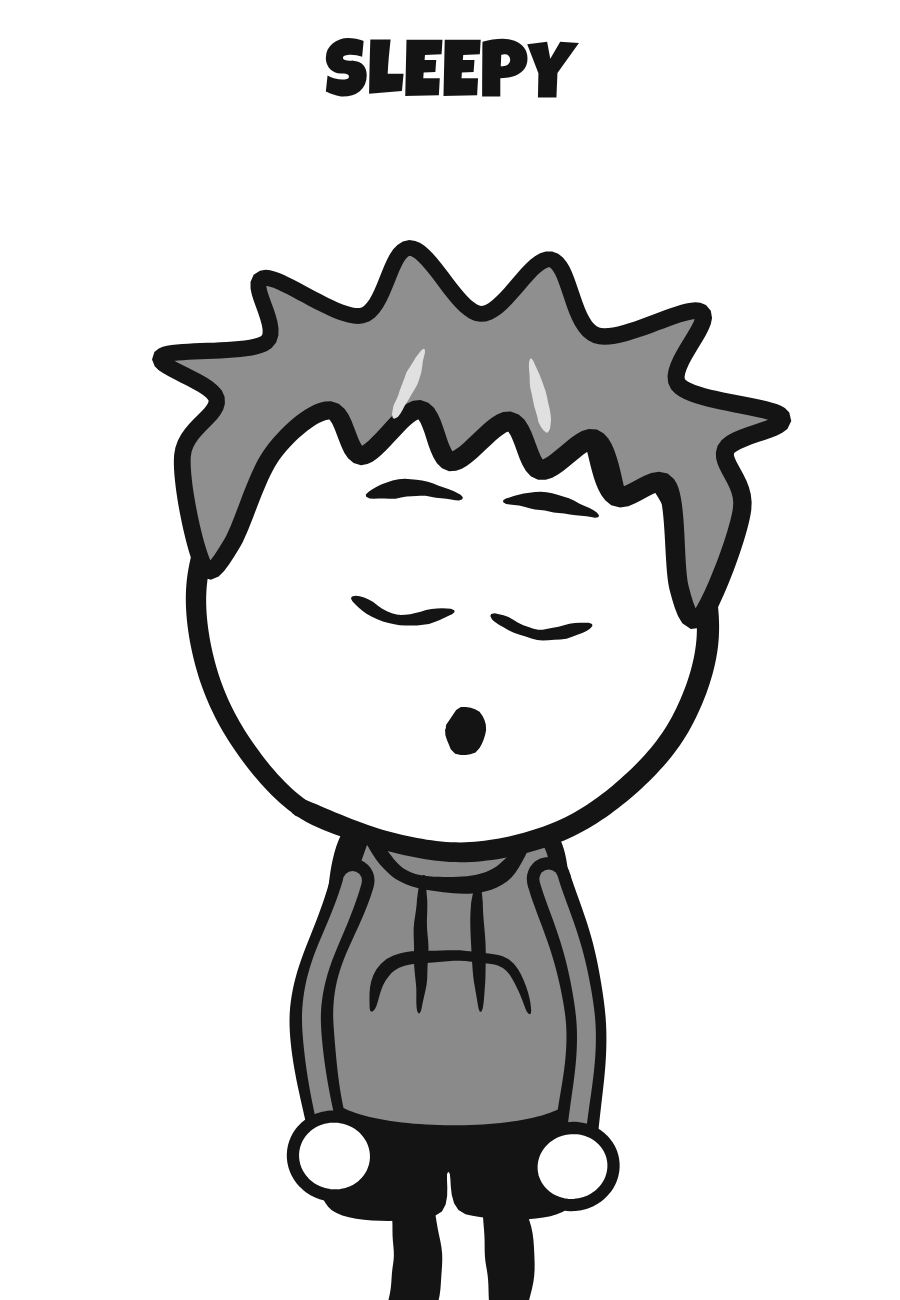
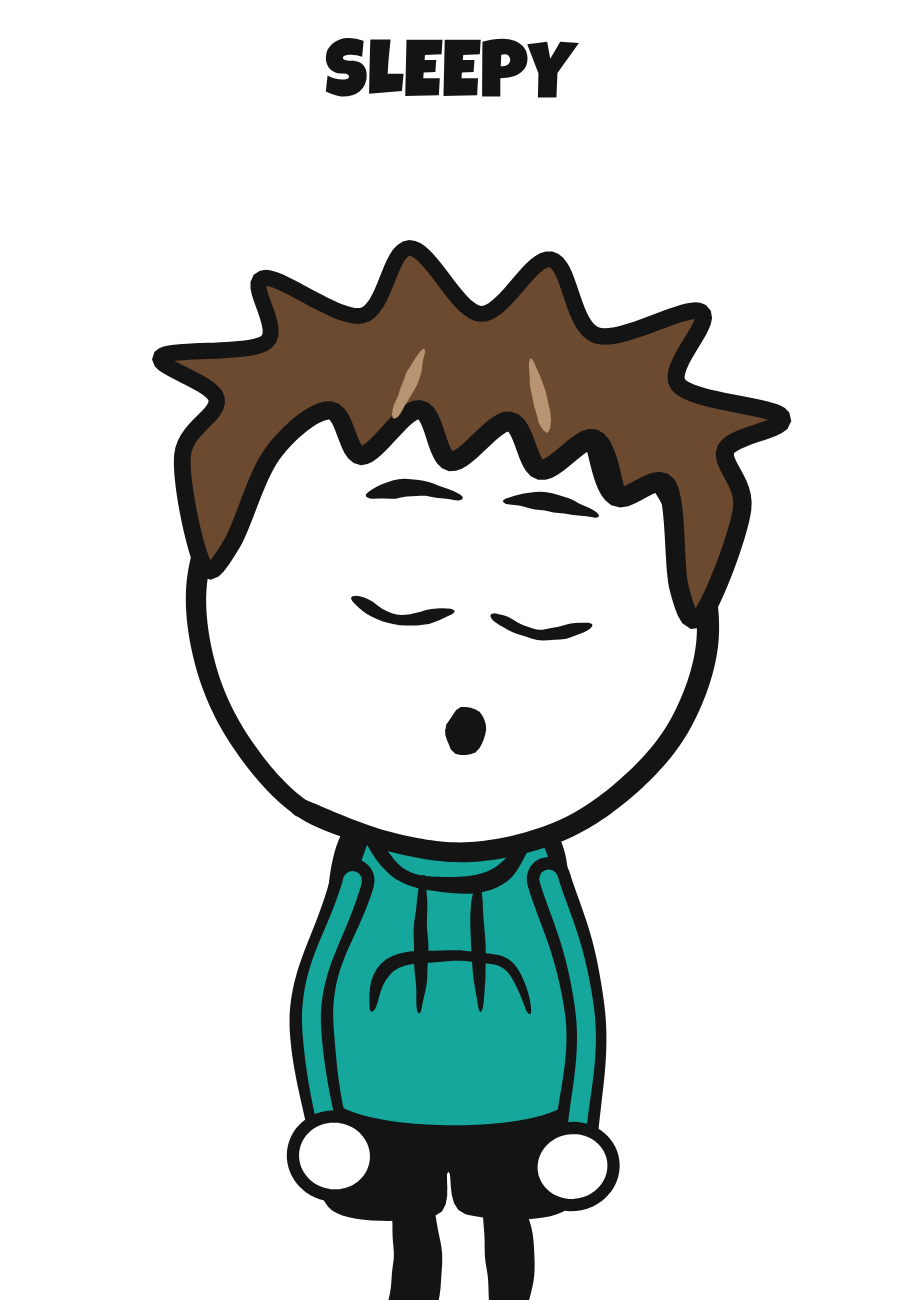
Colour: cream paper, teal and brown main character, coloured props on the paper
The channel's palette, chosen on rendered frames of the power nap and alarm
videos against the user's references (Nutshell, Ice Cream Sandwich, gebutaw,
pochita__arc): one flat cream paper for every shot, the main character with
brown hair, a teal hoodie and a beard the same brown as his hair, and props in
real-world colours dulled below the hoodie. Sets are props on the paper: no
walls, floors, ceilings or skirting drawn as surfaces.

- web/palette.js (new): every colour in one place, loaded first.
- Main character (Cameos.spikyMain) in the new colours; the long-nap beard
  matches the hair; the haircut skit's rig uses the same hoodie.
- Power nap: cream paper, no floor, olive couch, linen blanket.
- Alarm video: cream paper (darkened at night), wood bed and nightstand, blue
  blanket, brick curtains, butter lamp shade; wall, floor, skirting,
  floorboards, ceiling and the picture removed.
- STYLE.md: Colour section rewritten; sets rule; cast and hair notes.
- art-reviewer checklist: colour and set rules.
- characters/main re-rendered; references/README.md records the tests.

Other skits keep their grey sets until converted; the main character is in
colour wherever he appears.

Claude-Session: https://claude.ai/code/session_01CQeNMemGdKtmnPdcMhphHu

Changed region(s): [[0.1867, 0.1846, 0.84, 0.4615], [0.3111, 0.6462, 0.6844, 0.8923]]

diff --git a/web/skits/powernap.js b/web/skits/powernap.js
@@ -7,7 +7,7 @@
 Skits.powernap = (() => {
   const { stroke, fill, outline, blob, INK } = Brush;
   const { seg, lerp, easeOut, easeInOut, easeOutBack, say, loud, blink, clamp } = Stage;
-  const W = '#fff', RED = '#d9261c', BACKDROP = '#eeeeee', HEAD = 438;
+  const W = '#fff', RED = '#d9261c', BACKDROP = Palette.paper, HEAD = 438;
   const hh = i => { const x = Math.sin(i * 127.1 + 311.7) * 43758.5453; return x - Math.floor(x); };
 
   const END = 10.4;   // the clip's audio ends at 9.21; the last ~1.2 s holds his groggy face in silence
@@ -120,7 +120,7 @@ Skits.powernap = (() => {
   function blanket(ctx, P, s, cover, down = 0) {
     const L = HEAD * s * cover, th = 115 * s;
     const pts = [P(-70 * s, -th), P(L * 0.5, -th * 1.08), P(L, -th), P(L + 14 * s, 0), P(L, th + down), P(L * 0.5, th * 1.05 + down), P(-80 * s, th + down)];
-    shape(ctx, pts, '#bdbdbd', 10);
+    shape(ctx, pts, Palette.prop.linen, 10);
     stroke(ctx, [P(L - 40 * s, -th * 0.9), P(L - 40 * s, th * 0.8 + down)], { w: 6 });   // folded hem
     stroke(ctx, [P(L * 0.4, -th * 0.6), P(L * 0.25, th * 0.3)], { w: 5 });             // a wrinkle
   }
@@ -145,18 +145,17 @@ Skits.powernap = (() => {
   const SEAT = 1310, FLOOR = 1520;
   function couchBack(ctx) {
     ctx.fillStyle = BACKDROP; ctx.fillRect(-2000, -2000, 5000, 6000);
-    ctx.fillStyle = '#e2e2e2'; ctx.fillRect(-2000, FLOOR, 5000, 3000);                       // floor
     stroke(ctx, [[-900, FLOOR], [540, FLOOR + 3], [2000, FLOOR - 3]], { w: 9, taper0: 0, taper1: 0 });
-    fill(ctx, Brush.ellipsePts(540, FLOOR + 8, 470, 20, 16), '#cfcfcf', 0.4);              // flat shadow
-    couchShape(ctx, [[150, 1040], [540, 1010], [930, 1040], [940, SEAT + 20], [140, SEAT + 20]], '#5c5c5c', 11);   // back cushions
+    fill(ctx, Brush.ellipsePts(540, FLOOR + 8, 470, 20, 16), Palette.prop.shadow, 0.4);              // flat shadow
+    couchShape(ctx, [[150, 1040], [540, 1010], [930, 1040], [940, SEAT + 20], [140, SEAT + 20]], Palette.prop.olive, 11);   // back cushions
     stroke(ctx, [[540, 1030], [540, SEAT]], { w: 6 });                                       // seam between the two back cushions
-    couchShape(ctx, [[70, 1150], [140, 1110], [220, 1140], [230, FLOOR - 40], [80, FLOOR - 40]], '#4e4e4e', 11);   // left arm (his head ends up on it)
+    couchShape(ctx, [[70, 1150], [140, 1110], [220, 1140], [230, FLOOR - 40], [80, FLOOR - 40]], Palette.prop.oliveDark, 11);   // left arm (his head ends up on it)
   }
   function couchFront(ctx) {
-    couchShape(ctx, [[860, 1150], [940, 1110], [1010, 1150], [1000, FLOOR - 40], [850, FLOOR - 40]], '#4e4e4e', 11);   // right arm
-    couchPanel(ctx, box(200, SEAT, 870, FLOOR - 40), '#6a6a6a', 11);                               // seat cushions, front face
+    couchShape(ctx, [[860, 1150], [940, 1110], [1010, 1150], [1000, FLOOR - 40], [850, FLOOR - 40]], Palette.prop.oliveDark, 11);   // right arm
+    couchPanel(ctx, box(200, SEAT, 870, FLOOR - 40), Palette.prop.oliveLight, 11);                               // seat cushions, front face
     stroke(ctx, [[535, SEAT + 6], [535, FLOOR - 48]], { w: 6, seed: 4999 });
-    for (const x of [130, 950]) couchPanel(ctx, box(x - 20, FLOOR - 40, x + 20, FLOOR + 4, 2), '#555', 8);   // stubby legs
+    for (const x of [130, 950]) couchPanel(ctx, box(x - 20, FLOOR - 40, x + 20, FLOOR + 4, 2), '#5e4330', 8);   // stubby legs (wood)
   }
 
   const CS = 1.1, HIP = 150 * CS;   // his hips sit on the seat; the legs hang behind the seat cushions
@@ -202,9 +201,9 @@ Skits.powernap = (() => {
         const foot = [lerp(sitF[0], lieF[0], swing), lerp(sitF[1], lieF[1], swing) - arc * 1.4];
         const leg = [hip, knee, foot];
         const edge = [[lerp(hip[0], knee[0], 0.45), lerp(hip[1], knee[1], 0.45)], knee, foot];   // the edge starts below the shorts, so the hip end never shows a grey ring
-        stroke(ctx, edge, { w: 36, taper0: 0, taper1: 0, color: '#6a6a6a' });   // a thin couch-grey edge round both legs (on the upper leg it also keeps the two legs apart)
+        stroke(ctx, edge, { w: 36, taper0: 0, taper1: 0, color: Palette.prop.oliveLight });   // a thin couch-coloured edge round both legs (on the upper leg it also keeps the two legs apart)
         stroke(ctx, leg, { w: 28, taper0: 0, taper1: 0 });                                   // black legs, as in his design (the same ink as his shorts)   // ...dark trousers inside, so the legs read apart
-        fill(ctx, Brush.ellipsePts(foot[0] + 16 * swing, foot[1] + 4, 42, 21, 10), '#6a6a6a', 0.8);
+        fill(ctx, Brush.ellipsePts(foot[0] + 16 * swing, foot[1] + 4, 42, 21, 10), Palette.prop.oliveLight, 0.8);
         fill(ctx, Brush.ellipsePts(foot[0] + 16 * swing, foot[1] + 4, 38, 17, 10), INK, 0.8);   // shoe, tucked onto the end of the shin
       }
       ctx.restore();
@@ -259,7 +258,7 @@ Skits.powernap = (() => {
         ctx.fillStyle = '#e6edf2'; ctx.fill(); ctx.lineWidth = 6 * Brush.getWeight(); ctx.strokeStyle = Brush.INK; ctx.stroke();
         stroke(ctx, [[bx - br * 0.5, by - br * 0.1], [bx - br * 0.3, by - br * 0.5]], { w: 5, color: W, taper0: 0.2, taper1: 0.2, seed: 4910 + i });
       }
-      couchShape(ctx, [[-60, 1850], [240, 1810], [540, 1832], [840, 1806], [1140, 1846], [1140, 2000], [-60, 2000]], '#a8a8a8', 12);   // the couch cushion he pushes up from
+      couchShape(ctx, [[-60, 1850], [240, 1810], [540, 1832], [840, 1806], [1140, 1846], [1140, 2000], [-60, 2000]], '#a3b07f', 12);   // the couch cushion he pushes up from
       stroke(ctx, [[540, 1840], [540, 1940]], { w: 6, seed: 4998 });   // fixed seed: boils only on the beat
     }],
   ];

diff --git a/web/skits/morningself.js b/web/skits/morningself.js
@@ -52,13 +52,16 @@ Skits.morningself = (() => {
 
   // ---------- the bedroom: one wide shot, one camera, night and morning ----------
   // Only the lighting changes between them: these palettes.
-  const NIGHT = { ceiling: '#7a7a7a', wall: '#8c8c8c', floor: '#777777', skirting: '#9c9c9c', pane: '#4c4c4c', curtain: '#5c5c5c', frame: '#a8a8a8',
-                  head: '#5a5a5a', stand: '#6c6c6c', standTop: '#808080', mattress: '#b4b4b4', blanket: '#a6a6a6', pillow: '#c2c2c2', shade: W };
-  const DAY = { ceiling: '#f2f2f2', wall: '#dedede', floor: '#d0d0d0', skirting: '#f4f4f4', pane: W, curtain: '#a8a8a8', frame: '#f4f4f4',
-                head: '#8f8f8f', stand: '#9a9a9a', standTop: '#b4b4b4', mattress: '#dcdcdc', blanket: '#bdbdbd', pillow: '#d6d6d6', shade: '#cfcfcf' };
-  const FLOOR_Y = 1430, CEIL_Y = 90;
+  // Colours: the paper darkens for night, the props keep real-world colours
+  // dulled below his hoodie (Palette). No wall, floor or ceiling is drawn: the
+  // bed, nightstand, lamp and window sit on the paper (user decision).
+  const P = Palette.prop;
+  const NIGHT = { paper: Palette.paperNight, pane: P.nightSky, curtain: P.curtainNight, frame: '#a08f80',
+                  head: '#6b4f3b', stand: '#73563f', standTop: '#86684f', mattress: P.linenNight, blanket: P.blanketNight, pillow: '#d8cdbd', shade: W };
+  const DAY = { paper: Palette.paper, pane: W, curtain: P.curtain, frame: '#f8eee2',
+                head: P.wood, stand: '#b08a6c', standTop: P.woodLight, mattress: P.linen, blanket: P.blanket, pillow: '#f5ede2', shade: P.butter };
+  const FLOOR_Y = 1430;   // where the floor used to be: the morning sun patch still ends there
   const WIN = [630, 650, 890, 990];                    // window, right of the bed
-  const PIC = [110, 690, 330, 900];                    // framed picture, left wall
   const STAND = { x0: 750, x1: 1000, top: 1330, bot: 1478, back: 40 };   // a low nightstand beside the bed's head end, top about level with his shoulder
   const LAMP_X = 970, PHONE = [842, 1316];   // well inside the nightstand top
   // the bed, seen from its foot: mattress top runs from the headboard (far) to the near edge
@@ -67,8 +70,8 @@ Skits.morningself = (() => {
 
   function windowSet(ctx, c, day) {
     const [x0, y0, x1, y1] = WIN, mx = (x0 + x1) / 2, my = (y0 + y1) / 2;
-    if (day)   // morning sun through the window: a flat pale patch down the wall and across the floor
-      fill(ctx, [[x0 + 10, y1], [x1 - 10, y1], [x1 - 140, FLOOR_Y + 160], [x0 - 260, FLOOR_Y + 160]], '#f9f9f9', 0.3);
+    if (day)   // morning sun through the window: a flat pale patch down the paper
+      fill(ctx, [[x0 + 10, y1], [x1 - 10, y1], [x1 - 140, FLOOR_Y + 160], [x0 - 260, FLOOR_Y + 160]], '#fff8ee', 0.3);
     panel(ctx, box(x0, y0, x1, y1), c.pane, 11);
     ctx.save(); ctx.beginPath(); ctx.rect(x0 + 6, y0 + 6, x1 - x0 - 12, y1 - y0 - 12); ctx.clip();
     if (day) {
@@ -99,13 +102,6 @@ Skits.morningself = (() => {
     ctx.restore();
     stroke(ctx, [[x0 - 80, y0 - 36], [x1 + 74, y0 - 38]], { w: 10, taper0: 0, taper1: 0 });   // rod over the curtain tops
   }
-  function picture(ctx, c) {
-    const [x0, y0, x1, y1] = PIC;
-    panel(ctx, box(x0, y0, x1, y1, 4), c.frame, 10);
-    panel(ctx, box(x0 + 22, y0 + 22, x1 - 22, y1 - 22, 4), c.wall, 6);
-    stroke(ctx, [[x0 + 26, y1 - 40], [x0 + 80, y0 + 110], [x0 + 118, y1 - 70], [x0 + 160, y0 + 80], [x1 - 26, y1 - 40]], { w: 6 });   // hills
-    blob(ctx, x1 - 60, y0 + 62, 16, 16, { w: 5, n: 8 });
-  }
   function nightstand(ctx, c) {
     const { x0, x1, top, bot, back } = STAND, d = 30;   // the left side face shows: it's right of the camera
     panel(ctx, [[x0, top], [x0 - d, top - back], [x0 - d, bot - back], [x0, bot]], c.stand, 9);          // side
@@ -133,13 +129,7 @@ Skits.morningself = (() => {
   }
   function room(ctx, day) {
     const c = day ? DAY : NIGHT;
-    ctx.fillStyle = c.wall; ctx.fillRect(-100, -100, 1300, 2200);
-    fill(ctx, box(-100, FLOOR_Y, 1200, 2100, 4), c.floor, 0);
-    panel(ctx, box(-60, FLOOR_Y - 26, 1140, FLOOR_Y, 6), c.skirting, 8);
-    for (const [fx, dx] of [[60, -240], [330, -110], [610, 40], [880, 230], [1060, 330]]) stroke(ctx, [[fx, FLOOR_Y + 4], [fx + dx, 1940]], { w: 5 });   // floorboards
-    fill(ctx, box(-100, -100, 1200, CEIL_Y, 4), c.ceiling, 0);               // ceiling
-    panel(ctx, box(-60, CEIL_Y, 1140, CEIL_Y + 30, 6), c.skirting, 8);       // cornice
-    picture(ctx, c);
+    ctx.fillStyle = c.paper; ctx.fillRect(-100, -100, 1300, 2200);   // paper only: no wall, floor, skirting or picture
     windowSet(ctx, c, day);
     nightstand(ctx, c);
     lamp(ctx, c, !day);
@@ -320,9 +310,9 @@ Skits.morningself = (() => {
   // ---------- the phone close-up ----------
   const TIMES = ['6:00', '6:03', '6:06', '6:06', '6:07', '6:19', '6:15', '6:21', '6:28', '6:29', '6:30', '6:31', '6:33', '6:33', '6:41', '6:44', '6:52', '7:00'];
   function phoneScreen(ctx, t) {
-    ctx.fillStyle = '#a3a3a3'; ctx.fillRect(-100, -100, 1300, 2200);
+    ctx.fillStyle = Palette.paperNight; ctx.fillRect(-100, -100, 1300, 2200);
     // the blanket behind, a couple of folds
-    shape(ctx, [[-100, 1500], [400, 1420], [800, 1480], [1200, 1400], [1200, 2100], [-100, 2100]], '#bdbdbd', 11);
+    shape(ctx, [[-100, 1500], [400, 1420], [800, 1480], [1200, 1400], [1200, 2100], [-100, 2100]], Palette.prop.blanketNight, 11);
     stroke(ctx, [[880, 1560], [790, 1700]], { w: 6 });
     const z = lerp(1.04, 1.1, easeInOut(seg(t, CUT1, CUT2)));
     ctx.save(); ctx.translate(540, 900); ctx.scale(z, z); ctx.rotate(-0.025); ctx.translate(-540, -900);

diff --git a/web/cameos.js b/web/cameos.js
@@ -938,6 +938,10 @@ const Cameos = (() => {
                    dark: ['#555555', '#bdbdbd'], black: [INK, '#8a8a8a'] };
   const spikyShades = Object.fromEntries(Object.entries(SHADES).map(([k, [fillC, lineC]]) => [k,
     build({ shirt: '#8a8a8a', sleeve: '#8a8a8a', head: head({ hair: outlineHair(...SPIKES_UP, fillC, { lineColor: lineC }), browDy: 0 }), detail: hoodieFront })]));   // brows a touch lower, clear of the spiky fringe
+  // The main character as he ships: brown hair, teal hoodie (Palette.hero; user
+  // decision after the colour tests). Same rig and hair shape as the shade sheet.
+  const spikyMain = build({ shirt: Palette.hero.hoodie, sleeve: Palette.hero.hoodie,
+    head: head({ hair: outlineHair(...SPIKES_UP, Palette.hero.hair, { lineColor: Palette.hero.hairLine }), browDy: 0 }), detail: hoodieFront });
 
   // A few months' growth: a full scraggly beard from the sideburns down past
   // the chin (tufts poking out of the edge) and a moustache, on the spiky guy.
@@ -954,11 +958,11 @@ const Cameos = (() => {
       top.push([x, RY * (sag + (i % 2 ? 0.06 : -0.02) + 0.04 * hh(i + 20))]);
     }
     const shape = [...out, ...top];
-    fill(ctx, shape, '#454545', 1.6);   // darker than his hair, so it reads as its own beard
+    fill(ctx, shape, Palette.hero.beard, 1.6);   // the same brown as his hair (user decision)
     outline(ctx, shape, { w: 9 });
     for (let i = 0; i < 10; i++) {   // strands, all inside the beard
       const a = Math.PI * (0.18 + 0.64 * hh(i + 40)), r = 0.6 + 0.3 * hh(i + 50), x = Math.cos(a) * RX * r, y = Math.sin(a) * RY * r + RY * 0.24;
-      stroke(ctx, [[x, y], [x + (hh(i + 60) - 0.5) * 18, y + 16]], { w: 4, color: '#6e6e6e' });
+      stroke(ctx, [[x, y], [x + (hh(i + 60) - 0.5) * 18, y + 16]], { w: 4, color: Palette.hero.beardStroke });
     }
   };
   const scragglyMoustache = (ctx, fx, rage, p = {}) => {
@@ -1008,13 +1012,13 @@ const Cameos = (() => {
     if (rage) ctx.translate(0, -12);
     const m = [[fx - 70, 60], [fx - 58, 38], [fx - 30, 28], [fx, 34], [fx + 30, 28], [fx + 58, 38], [fx + 70, 60],
                [fx + 50, 50], [fx + 40, 58], [fx + 24, 46], [fx, 50], [fx - 24, 46], [fx - 40, 58], [fx - 50, 50]];
-    fill(ctx, m, '#454545', 1.4);
+    fill(ctx, m, Palette.hero.beard, 1.4);
     outline(ctx, m, { w: 7 });
     if (p.bags) for (const sd of [-1, 1])   // tired shading just under each eye, open or shut, drawn over the moustache's top edge
       stroke(ctx, [[fx + sd * 48 - 22, 36], [fx + sd * 48, 45], [fx + sd * 48 + 22, 36]], { w: 7, taper0: 0.3, taper1: 0.3, color: '#7a7a7a' });
   };
-  const spikyBearded = build({ shirt: '#8a8a8a', sleeve: '#8a8a8a',
-    head: head({ hair: outlineHair(...SPIKES, ...SHADES.brown.slice(0, 1), { lineColor: SHADES.brown[1] }), beard: scragglyBeard, front: scragglyMoustache }),
+  const spikyBearded = build({ shirt: Palette.hero.hoodie, sleeve: Palette.hero.hoodie,
+    head: head({ hair: outlineHair(...SPIKES, Palette.hero.hair, { lineColor: Palette.hero.hairLine }), beard: scragglyBeard, front: scragglyMoustache }),
     detail: hoodieFront });
 
   // Signature accent colour: hair stays a natural colour, the one unnatural
@@ -1648,5 +1652,5 @@ const Cameos = (() => {
     return { shirt: jacket, sleeve: jacket, sleeveHem: undefined, sleeveFill: undefined, body, detail: suitFront(tie, seed) };
   });
 
-  return { suited, squeex, speed, ludwig, beast, nick: nickMidPart, nickOld: nickBack.same, slime, slimeRoach, originals, originals2, men, spikyShades, spikyBearded, spikyAccents, nickAlts, nickFlow, nickOutline, nickBack, nickMidPart, nickMidLayered, props: { cash, bigCheck }, parts: { build, head, hh, RX, RY } };
+  return { suited, squeex, speed, ludwig, beast, nick: nickMidPart, nickOld: nickBack.same, slime, slimeRoach, originals, originals2, men, spikyShades, spikyMain, spikyBearded, spikyAccents, nickAlts, nickFlow, nickOutline, nickBack, nickMidPart, nickMidLayered, props: { cash, bigCheck }, parts: { build, head, hh, RX, RY } };
 })();

diff --git a/web/palette.js b/web/palette.js
@@ -1,0 +1,27 @@
+// The channel's colours (user decision, after the palette tests on the power
+// nap and alarm videos). One paper tone for every video, one hue on the main
+// character, real-world colours dulled below his on props. See STYLE.md,
+// Colour. Everything that draws a colour reads it from here, so a change lands
+// everywhere at once.
+const Palette = (() => {
+  const paper = '#f1e2d1';        // cream: the flat backdrop of every shot, dialogue singles included
+  const paperNight = '#9a8878';   // the same paper darkened for a night scene (the alarm video)
+  const hero = {
+    hair: '#6b4a30', hairLine: '#b89472',   // brown; the light strokes inside the spikes
+    hoodie: '#16a79c',                      // teal: the one saturated hue in the cast. Props never use it.
+    beard: '#6b4a30', beardStroke: '#8a6a4c',   // the bearded version: same brown as the hair
+  };
+  // Prop colours used so far: real-world colours, dulled so they sit below
+  // the hoodie. Reuse these before inventing a new one.
+  const prop = {
+    wood: '#a98468', woodDark: '#8e6a4e', woodLight: '#c6a486',   // bed frame, nightstand, table
+    olive: '#7c8a5c', oliveDark: '#6d7a4e', oliveLight: '#8c9a6a',   // the power nap couch
+    blanket: '#9db0c4', blanketNight: '#5f7288',
+    curtain: '#b86b62', curtainNight: '#8a4f48',   // brick
+    butter: '#ecd79a',                              // lamp shade
+    nightSky: '#3f4656',
+    linen: '#efe6d9', linenNight: '#cdbfae',        // mattress, pillow
+    shadow: '#dcc6ac',                              // flat shadow on the paper
+  };
+  return { paper, paperNight, hero, prop };
+})();

diff --git a/web/hero.js b/web/hero.js
@@ -659,9 +659,9 @@ const Hero = (() => {
   const mainHair = Object.fromEntries(Object.entries(MAIN_HAIR).map(([k, h]) => [k, mainWith(h)]));
   const mainBody = build({ shirt: '#5a5a5a', sleeve: '#5a5a5a', head: mainHead, detail: overshirt });
   const mainOld = (ctx, p) => mainBody(ctx, { mouth: 'smile', lid: 0, brow: 0, ...p });
-  // The main character: the spiky-haired guy, mid-grey hair, grey hoodie.
+  // The main character: the spiky-haired guy, brown hair, teal hoodie (Palette.hero).
   const mainDefaults = draw => { const f = (ctx, p) => draw(ctx, { mouth: 'smile', lid: 0, brow: 0, ...p }); f.with = patch => mainDefaults(draw.with(patch)); return f; };
-  const main = mainDefaults(Cameos.spikyShades.brown);
+  const main = mainDefaults(Cameos.spikyMain);
   // the main character after a very long nap: full scraggly beard and moustache
   const mainBearded = (ctx, p) => Cameos.spikyBearded(ctx, { mouth: 'smile', lid: 0, brow: 0, ...p });
 

diff --git a/web/skits/haircut.js b/web/skits/haircut.js
@@ -270,8 +270,8 @@ Skits.haircut = (() => {
 
   let hairNow = mopHair;
   const hoodieFront = (ctx, n) => stroke(ctx, [[-50, n + 2], [-30, n + 30], [0, n + 38], [30, n + 30], [50, n + 2]], { w: 9 });
-  // Hero.main's build (Cameos.spikyShades.brown) with a swappable haircut
-  const guyRig = build({ shirt: '#8a8a8a', sleeve: '#8a8a8a', detail: hoodieFront,
+  // Hero.main's build (Cameos.spikyMain) with a swappable haircut
+  const guyRig = build({ shirt: Palette.hero.hoodie, sleeve: Palette.hero.hoodie, detail: hoodieFront,
     head: head({ hair: ctx => hairNow(ctx) }) });
   const guy = (ctx, p) => guyRig(ctx, { mouth: 'smile', lid: 0, brow: 0, ...p });
 

diff --git a/web/index.html b/web/index.html
@@ -19,6 +19,7 @@
 <body>
 <nav id="nav"></nav>
 <canvas id="c" width="1080" height="1920"></canvas>
+<script src="palette.js"></script>
 <script src="brush.js"></script>
 <script src="lipsync.js"></script>
 <script src="characters.js"></script>

diff --git a/STYLE.md b/STYLE.md
@@ -62,14 +62,18 @@ disagree, the rule wins.
 - Outline style from the reference sheets: one continuous silhouette, waves
   and points in the outline, a few inner strokes, hair behind the head drawn
   as part of the same silhouette (never a stuck-on piece).
-- Natural hair colours only (greys in the house style, or real hair colours).
-  Never orange, blue, pink or other unnatural colours on hair.
+- Natural hair colours only (greys, or real hair colours; the main character
+  is brown, `Palette.hero.hair`). Never orange, blue, pink or other unnatural
+  colours on hair.
 
 ## Beards
 
 A full beard reads as one dense, short beard, never as stubble (hatching over
 skin) or as scraggly hair (long, uneven strokes). Squeex's beard
-(`beardFull2` in `web/cameos.js`, `?skit=squeex_beard2`) is the model.
+(`beardFull2` in `web/cameos.js`, `?skit=squeex_beard2`) is the model. The
+main character's long-nap beard (`Hero.mainBearded`) is the one exception to
+"never scraggly", and it is the same brown as his hair (user decision), not a
+darker shade.
 
 - Fill: one solid fill for the whole beard, sideburns and upper cheeks
   included, a grey that stays apart from both the hair and the clothes. No
@@ -98,9 +102,36 @@ skin) or as scraggly hair (long, uneven strokes). Squeex's beard
 
 ## Colour
 
-- Base is black, white and grey.
-- Red (`#e3261b` / `#d9261c`) belongs to title captions (dialogue subtitles use speaker colours, see Captions).
-- Unnatural colours are for clothing only. Cameos stay grayscale.
+Every colour lives in `web/palette.js` (`Palette`); read it from there, never
+type a hex into a skit. User decision after the palette tests on the power nap
+and alarm videos (cream paper, teal hero, coloured props; see
+`references/README.md` for how the tests were run).
+
+- **Paper.** Every shot sits on one flat cream (`Palette.paper`, `#f1e2d1`):
+  dialogue singles, cutaways, full scenes. A night scene darkens the same paper
+  (`Palette.paperNight`). Never white, never grey, never a saturated colour,
+  never a different tone per video: the feed is one paper.
+- **Skin stays white, ink stays black.** The halo and the character outlines
+  are what make the drawing ours; colour goes around them, not into them.
+- **The main character carries the one saturated hue.** Brown hair
+  (`Palette.hero.hair`), teal hoodie (`Palette.hero.hoodie`); his beard, when
+  he has one, is the same brown as his hair. Nothing else in a frame is teal,
+  and nothing else is as saturated as the hoodie.
+- **Props take real-world colours, dulled below the hoodie.** Wood is wood,
+  a blanket is blue, a lamp shade is butter: see `Palette.prop` and reuse those
+  before adding one. Only one large coloured shape per shot (a couch, a
+  blanket); small props can be whatever they are. No prop is ever teal, and a
+  prop keeps its colour between shots.
+- **Red** (`#e3261b` / `#d9261c`) belongs to title captions and to the one
+  prop that is the joke (the eye doctor's balloon). Dialogue subtitles use
+  speaker colours, see Captions.
+- **Cameos** stay grayscale with their existing clothing accents (suit ties)
+  until each is given a signature colour. Unnatural colours are for clothing
+  only; never on hair.
+- Not yet converted: skits other than the power nap and the alarm still draw
+  their own grey sets. Convert a skit by swapping its backdrop and fills for
+  `Palette` entries and dropping its walls and floors (see Sets below); the
+  main character is already in colour everywhere he appears.
 
 ## Cast
 
@@ -111,9 +142,10 @@ skin) or as scraggly hair (long, uneven strokes). Squeex's beard
 - Faces come from the shared emotion set (`web/emotions.js`, `...Emotions.angry`).
   Don't hand-tune a face in a skit when an emotion covers it; add or adjust the
   emotion instead and re-render `characters/` so the references stay true.
-- Main character: `Hero.main`, the spiky-haired guy with mid-grey hair and a
-  grey hoodie (`Cameos.spikyShades.brown`). The previous design is kept as
-  `Hero.mainOld`.
+- Main character: `Hero.main`, the spiky-haired guy with brown hair and a
+  teal hoodie (`Cameos.spikyMain`, colours in `Palette.hero`). The grey shade
+  sheet (`Cameos.spikyShades`) and the previous design (`Hero.mainOld`) are
+  kept for reference only.
 - Squeex: the approved design is draft C with the full dark beard,
   `Cameos.squeex.beards.full` (see `?skit=squeex_beard2` and
   `characters/squeex/beards/`). It has his own angry (squared clenched teeth)
@@ -132,11 +164,17 @@ skin) or as scraggly hair (long, uneven strokes). Squeex's beard
 
 - Don't sit in one medium two-shot. Cut to close-ups for reactions and punch
   lines, push in on the joke, pull back for group shots.
-- **Dialogue shots use a flat light-grey backdrop (`#eeeeee`), not scenery.**
+- **Dialogue shots use the flat cream paper (`Palette.paper`), not scenery.**
   One thin ink ground line and a flat ink shadow under each character keep
-  them grounded; the white halo around dark bodies stays visible on the grey.
+  them grounded; the white halo around dark bodies stays visible on the cream.
   Full sets (sky, hills, props, grass) are only for cutaways, and every
   cutaway in a video uses the same set kit so they match.
+- **Sets are props on the paper, never rooms** (user decision, from the alarm
+  and presentation tests). No wall, floor, ceiling, skirting or floorboards
+  drawn as surfaces: the bed, the nightstand, the window, the couch, the
+  meeting table sit on the bare paper, and a window floats where the wall
+  would be. A ground line appears only where a character is standing on it.
+  Night is the paper darkened plus a lit lamp, not a dark wall.
 - Frame the characters big: heads sit just under the captions, singles for
   most lines (medium or close-up), two-shots only when both need to be seen.
   Two-shots don't push in if it would clip a character at the edge.

diff --git a/.claude/agents/art-reviewer.md b/.claude/agents/art-reviewer.md
@@ -5,7 +5,7 @@ tools: Read, Glob, Grep, Bash
 model: opus
 ---
 
-You are the art director for a black-and-white ink-style animation channel in the spirit of Nutshell Animations. You did not make this work and you have no stake in it. Your job is to find every problem before the user sees it. The user would much rather get a harsh review from you than find the problems himself.
+You are the art director for an ink-style animation channel in the spirit of Nutshell Animations: black ink lines and white skin on one cream paper, with one saturated hue on the main character and dulled real-world colours on props (STYLE.md, Colour). You did not make this work and you have no stake in it. Your job is to find every problem before the user sees it. The user would much rather get a harsh review from you than find the problems himself.
 
 BE STRICT: THE USER HAS CAUGHT WHAT YOU PASSED
 The user has repeatedly found mistakes in renders you passed or under-rated: legs clipping through a couch as a character rotated, a pillow sliding along with a head, awkward looping arms, a face that looked nothing like the references the user supplied, brows pressed onto eyelids. Review as if the user will watch every frame, because they do.
@@ -44,9 +44,11 @@ Staging and camera
 - Nothing is cropped at the frame edge unless the crop is clearly intentional and well past the head.
 - In group shots, heads don't stack or overlap, and there is one clear ground line.
 Backgrounds
-- Dialogue shots use a flat light-grey backdrop, a single ink ground line, and flat ink shadows. No scenery.
+- Dialogue shots use the flat cream paper (`Palette.paper`), a single ink ground line, and flat ink shadows. No scenery.
+- Colour (STYLE.md, Colour; `web/palette.js`): the paper is the one cream in every shot of a converted video (night: the same paper darkened). Skin is white, ink is black. The main character has brown hair, a teal hoodie, and a beard the same brown as his hair. Flag: any other teal in frame; any prop more saturated than the hoodie; more than one large coloured shape per shot; a prop that changes colour between shots; coloured skin; a white, grey or saturated backdrop in a converted video (power nap, alarm); any hex colour typed into a skit instead of read from `Palette`.
+- Sets are props on the paper, never rooms: flag any wall, floor, ceiling, skirting or floorboard drawn as a surface, and any ground line under nothing. Furniture, a window and a lamp sit on the bare paper.
 - Cutaways have full backgrounds, drawn with the same brush weight as the characters.
-- The halo never shows as a visible white disc or blob against the grey.
+- The halo never shows as a visible white disc or blob against the paper.
 Characters
 - Each character matches their design notes in STYLE.md and cameos.js/hero.js.
 - No character has ears (user rule, STYLE.md Cast): flag any ear on any human character, cast or one-off.

diff --git a/references/README.md b/references/README.md
@@ -17,3 +17,17 @@ want, or upload just the audio.
 
 Suggested layout: one folder per idea, e.g. `references/power-nap/` with the
 clip plus a `notes.md` saying who says which line.
+
+## Palette tests (October 2026)
+
+The channel's colours (STYLE.md, Colour; `web/palette.js`) were chosen by
+rendering real skit frames, not swatches: the power nap wide and close-up and
+the alarm video's night and morning shots, each re-coloured in a scratch copy
+of `web/` and laid side by side. Tested and rejected: full colour with peach
+skin (no hierarchy, reads as vector explainer art); a grey character on a
+coloured set (the set wins the eye); white paper (white skin loses its edge);
+pale blue and mint paper (too close to the teal); grey walls and floors next
+to coloured props (stickers on a set). The references the user supplied were
+Nutshell Animations, Ice Cream Sandwich, gebutaw and pochita__arc: one paper
+tone per feed, at most one hue on the character, muted colour on a few props,
+no rooms drawn as surfaces.
